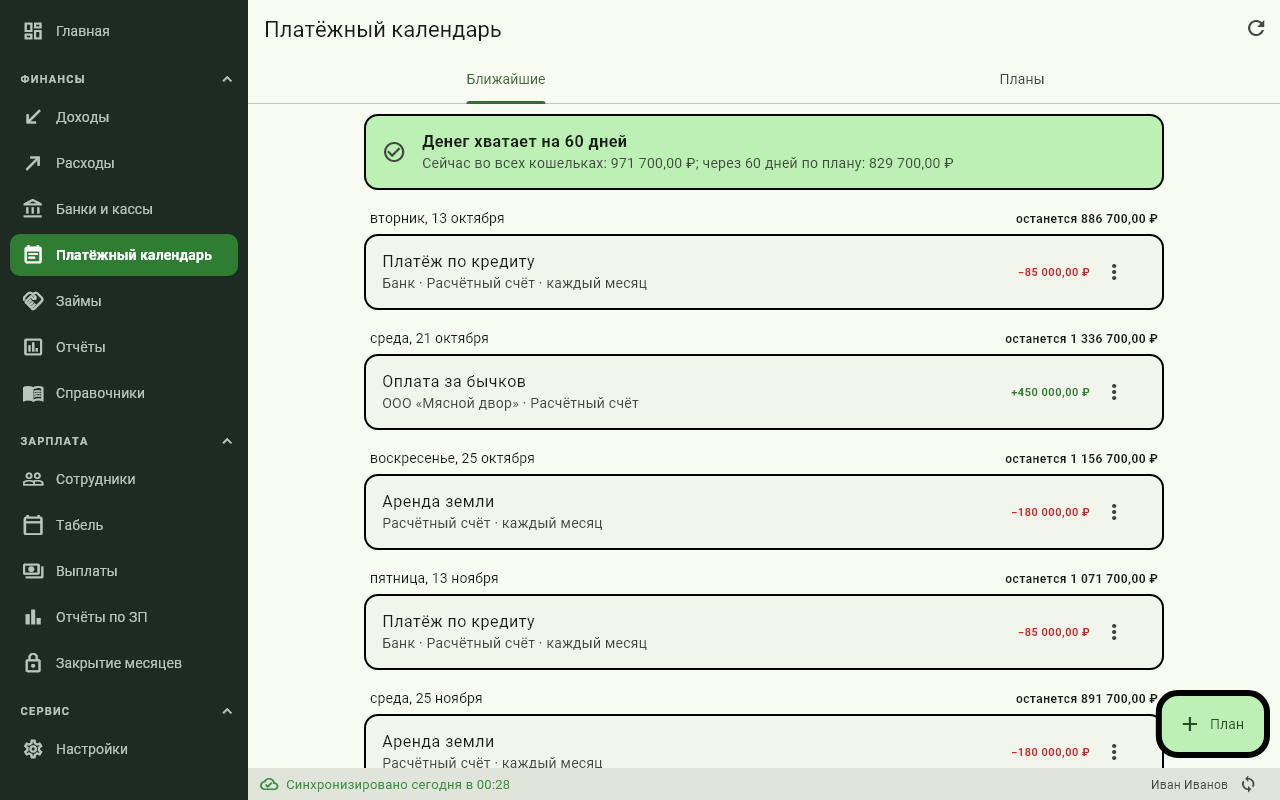
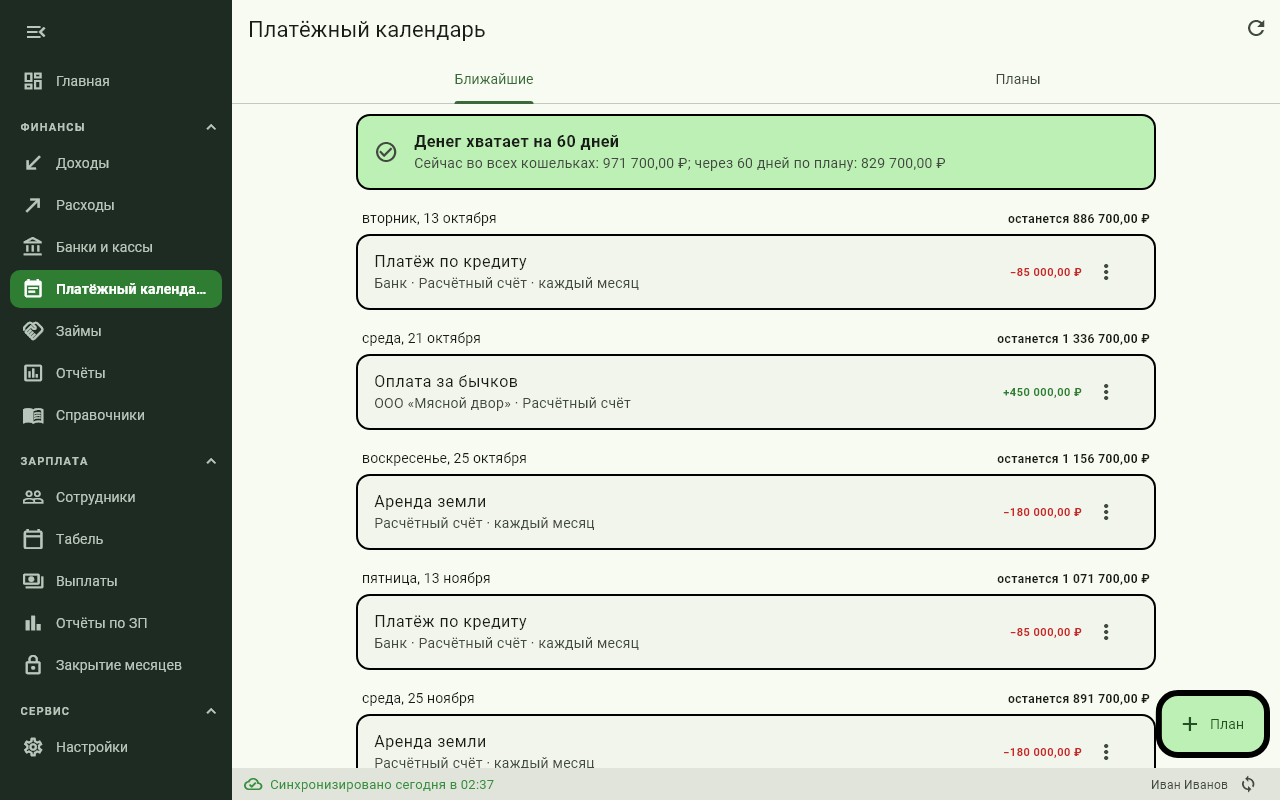
Боковое меню сворачивается до значков, главная — в две колонки с 720 пикселей
Кнопка над меню сворачивает его до значков с подсказками и разворачивает
обратно, выбор запоминается (shared_preferences). Развёрнутое меню уже
(232 вместо 248), пункты плотнее. Картинки и текст справки обновлены.

diff --git a/lib/widgets/side_menu.dart b/lib/widgets/side_menu.dart
@@ -3,9 +3,12 @@
 // Боковое меню широкого окна (8Б.1): тёмная панель с группами «Финансы»,
 // «Зарплата», «Сервис» (UI_REQUIREMENTS п. 2.2). Группа сворачивается
 // нажатием на заголовок; выбранный пункт свёрнутой группы остаётся виден.
-// Узкое окно (меньше [wideWidth]) — только значки с подсказками.
+// Кнопка «☰» вверху сворачивает меню до значков с подсказками и
+// разворачивает обратно; выбор запоминается на устройстве. Пока человек
+// не выбирал, узкое окно (меньше [wideWidth]) — только значки.
 
 import 'package:flutter/material.dart';
+import 'package:shared_preferences/shared_preferences.dart';
 
 import '../theme/app_theme.dart';
 import 'section_navigation.dart';
@@ -30,12 +33,47 @@ class SideMenu extends StatefulWidget {
 }
 
 class _SideMenuState extends State<SideMenu> {
+  static const _expandedKey = 'kfh_side_menu_expanded';
+
   final _collapsed = <NavGroup>{};
+
+  /// Выбор человека: развёрнуто ли меню (null — не выбирал).
+  bool? _expanded;
+
+  @override
+  void initState() {
+    super.initState();
+    _loadExpanded();
+  }
+
+  Future<void> _loadExpanded() async {
+    try {
+      final value = (await SharedPreferences.getInstance()).getBool(
+        _expandedKey,
+      );
+      if (value != null && mounted) setState(() => _expanded = value);
+    } catch (_) {
+      // Нет хранилища (тесты) — по ширине окна.
+    }
+  }
+
+  Future<void> _toggle(bool wide) async {
+    setState(() => _expanded = !wide);
+    try {
+      await (await SharedPreferences.getInstance()).setBool(
+        _expandedKey,
+        _expanded!,
+      );
+    } catch (_) {
+      // Не сохранилось — до перезапуска.
+    }
+  }
 
   @override
   Widget build(BuildContext context) {
-    final wide = MediaQuery.sizeOf(context).width >= SideMenu.wideWidth;
-    final children = <Widget>[];
+    final wide =
+        _expanded ?? MediaQuery.sizeOf(context).width >= SideMenu.wideWidth;
+    final children = <Widget>[_toggleButton(wide)];
     NavGroup? group;
     for (final (i, item) in widget.items.indexed) {
       if (item.group != group) {
@@ -53,13 +91,28 @@ class _SideMenuState extends State<SideMenu> {
       child: SafeArea(
         right: false,
         child: SizedBox(
-          width: wide ? 248 : 72,
+          width: wide ? 232 : 72,
           child: ListView(
             padding: const EdgeInsets.symmetric(vertical: 8),
             children: children,
           ),
         ),
       ),
+    );
+  }
+
+  Widget _toggleButton(bool wide) {
+    final button = IconButton(
+      tooltip: wide ? 'Свернуть меню' : 'Развернуть меню',
+      icon: Icon(wide ? Icons.menu_open : Icons.menu),
+      color: AppTheme.navigationForeground,
+      onPressed: () => _toggle(wide),
+    );
+    return Padding(
+      padding: const EdgeInsets.fromLTRB(12, 0, 12, 4),
+      child: wide
+          ? Align(alignment: Alignment.centerLeft, child: button)
+          : Center(child: button),
     );
   }
 
@@ -118,10 +171,7 @@ class _SideMenuState extends State<SideMenu> {
         borderRadius: BorderRadius.circular(10),
         onTap: () => widget.onSelected(index),
         child: Padding(
-          padding: EdgeInsets.symmetric(
-            horizontal: wide ? 12 : 0,
-            vertical: 10,
-          ),
+          padding: EdgeInsets.symmetric(horizontal: wide ? 12 : 0, vertical: 8),
           child: wide
               ? Row(
                   children: [

diff --git a/test/widgets/main_screen_test.dart b/test/widgets/main_screen_test.dart
@@ -19,6 +19,7 @@ import 'package:kfx_time_tracking/screens/sync_screen.dart';
 import 'package:kfx_time_tracking/services/app_database.dart';
 import 'package:package_info_plus/package_info_plus.dart';
 import 'package:provider/provider.dart';
+import 'package:shared_preferences/shared_preferences.dart';
 
 import '../support/sync_test_server.dart';
 
@@ -28,6 +29,7 @@ void main() {
   driftRuntimeOptions.dontWarnAboutMultipleDatabases = true;
 
   setUpAll(() => initializeDateFormatting('ru'));
+  setUp(() => SharedPreferences.setMockInitialValues({}));
   setUp(
     () => PackageInfo.setMockInitialValues(
       appName: 'kfh',
@@ -169,6 +171,22 @@ void main() {
       findsOneWidget,
     );
     await tester.tap(find.text('ФИНАНСЫ'));
+    await tester.pump();
+    expect(
+      find.descendant(of: menu, matching: find.text('Доходы')),
+      findsOneWidget,
+    );
+
+    // Меню сворачивается до значков с подсказками и разворачивается.
+    await tester.tap(find.byTooltip('Свернуть меню'));
+    await tester.pump();
+    expect(
+      find.descendant(of: menu, matching: find.text('Доходы')),
+      findsNothing,
+    );
+    expect(tester.getSize(menu).width, lessThan(100));
+    expect(find.byTooltip('Доходы'), findsOneWidget);
+    await tester.tap(find.byTooltip('Развернуть меню'));
     await tester.pump();
     expect(
       find.descendant(of: menu, matching: find.text('Доходы')),

diff --git a/lib/help/help_content.dart b/lib/help/help_content.dart
@@ -419,7 +419,9 @@ const helpChapters = <HelpChapter>[
     blocks: [
       HelpText(
         'Главная — сводка на сегодня: сколько хозяйство должно сотрудникам, '
-        'итоги текущего месяца и напоминания.',
+        'итоги текущего месяца и напоминания. На компьютере кнопка с тремя полосками над '
+        'боковым меню сворачивает его до значков (подпись — при наведении) '
+        'и разворачивает обратно; программа это запоминает.',
       ),
       HelpImage('home', 'Главная'),
       HelpList([

diff --git a/lib/screens/home_screen.dart b/lib/screens/home_screen.dart
@@ -248,7 +248,7 @@ class _HomeScreenState extends State<HomeScreen> {
                         open: (section) => _open(section),
                       );
                 const gap = SizedBox(height: 12, width: 12);
-                if (constraints.maxWidth < 900) {
+                if (constraints.maxWidth < 720) {
                   return ListView(
                     padding: const EdgeInsets.all(12),
                     children: [
